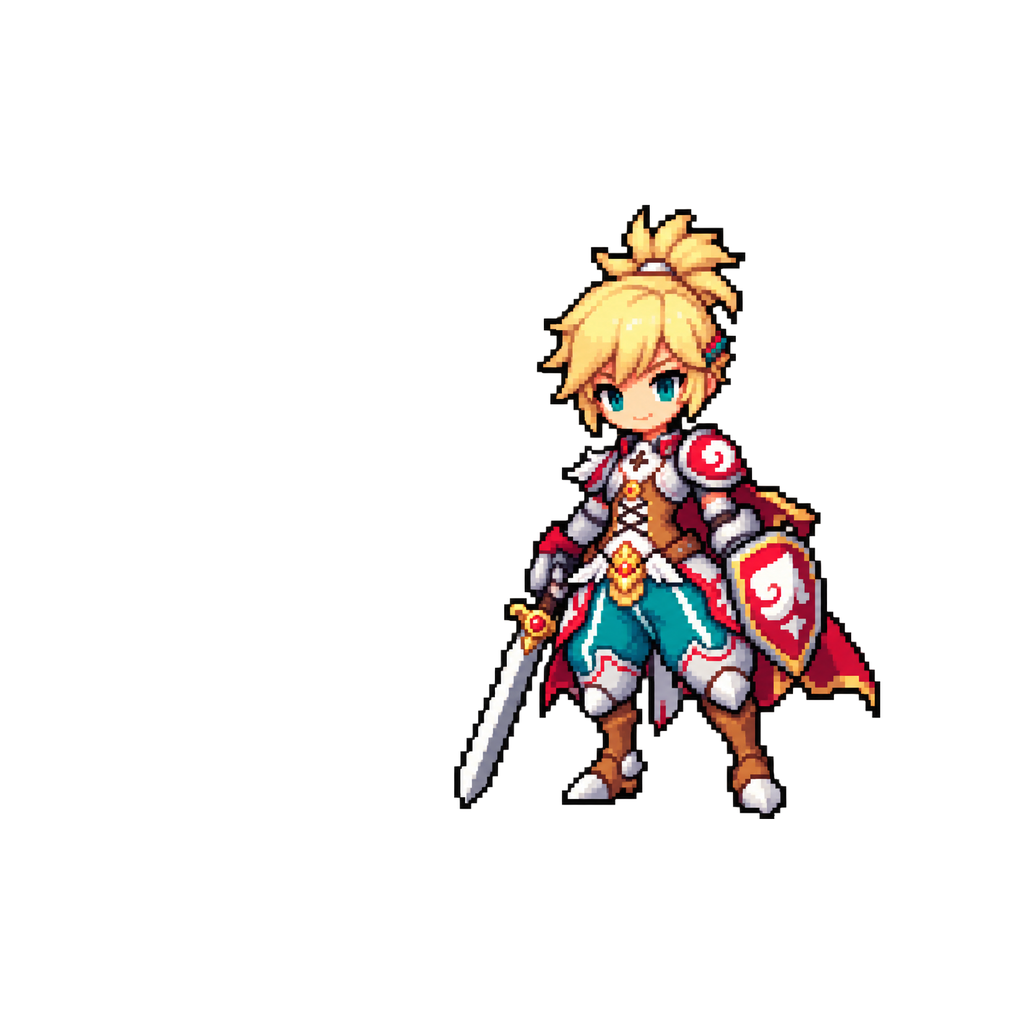
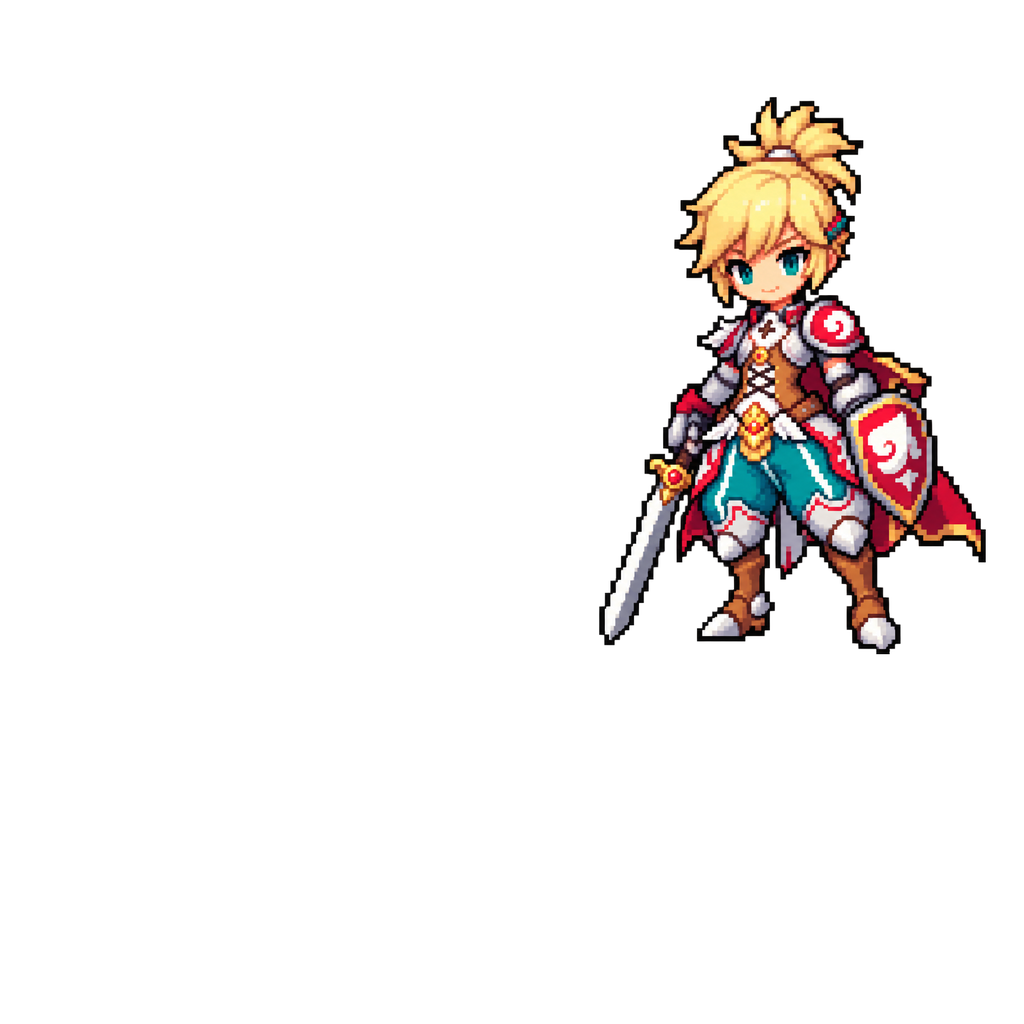
ขยาย Warrior และ Mage เป็น 1.5 เท่าทุกจุดที่ใช้
- App.jsx: คูณ 1.5 กับทุกค่าขนาดที่เกี่ยวข้อง (.warrior-img, .mage-img,
  .scribe-mage-mount .mage-img, .budget-mage-mount .mage-img,
  .safe-to-spend-header min-height) พร้อมกัน รักษาสัดส่วน/ระยะกันชนเดิมไว้ทุกจุด
- ไม่ขยาย .slime-img-party ตาม (ผู้ใช้ขอแค่ Warrior/Mage) — คอมเมนต์เดิมที่บอกว่าต้อง sync
  ขนาดกับ .budget-mage-mount .mage-img จึงไม่จริงอีกต่อไป อัปเดตคอมเมนต์ให้ตรงแล้ว
- เจอบั๊ก overlap ซ้ำตอนทดสอบ: warrior 300px บนเดสก์ท็อป ปลายดาบยื่นทับตัวเลข
  'โอน/ชำระเดือนนี้' อีกครั้ง (กล่องยึดขอบขวาคงที่ ไม่ขยับตามขนาดที่โตขึ้น)
- แก้โดยครอปไฟล์ mascot-warrior.png ใหม่: เยื้องขวามากขึ้น + ขยับตัวละครขึ้นบนในกรอบ
  (ปลายดาบเป็นจุดที่ชน ไม่ใช่ตัวคน จึงต้องขยับทั้งframe ขึ้น ไม่ใช่แค่ขยับขวา)
- ทดสอบซ้ำด้วยการจำลอง render จริงทั้งสองจุดเสี่ยงที่ขนาดใหม่ เดสก์ท็อป+มือถือ ผ่านหมด

Claude-Session: https://claude.ai/code/session_01AhArBAQLkBxgizXVESnfAh

Changed region(s): [[0.4375, 0.0938, 0.9688, 0.8125]]

diff --git a/src/App.jsx b/src/App.jsx
@@ -242,10 +242,14 @@ export default function App() {
         /* MageMascot.jsx's own <img> size — see ".warrior-img" above for why this is a class,
            not an inline style: only a stylesheet rule can be overridden by a media query. This
            card is self-contained (BudgetMageCard.jsx), so unlike the warrior it never has to
-           stay clear of someone else's numbers — just enough room to grow a bit on desktop. */
-        .mage-img { width: clamp(64px, 18vw, 100px); height: clamp(64px, 18vw, 100px); }
+           stay clear of someone else's numbers — just enough room to grow a bit on desktop.
+           1.5× across the board (2026-08-11, "ขยาย Warrior/Mage ทั้งคู่ 1.5 เท่า") — every
+           number below (this rule and its two scoped overrides, plus ".warrior-img" and
+           ".safe-to-spend-header"'s min-height) scaled by the same 1.5 factor together, so the
+           buffer/proportion relationships between them hold exactly as before, just bigger. */
+        .mage-img { width: clamp(96px, 27vw, 150px); height: clamp(96px, 27vw, 150px); }
         @media (min-width: 1280px) {
-          .mage-img { width: 140px; height: 140px; }
+          .mage-img { width: 210px; height: 210px; }
         }
 
         /* ArcherMascot.jsx's own <img> size — deliberately smaller than the warrior/mage: this
@@ -264,9 +268,9 @@ export default function App() {
            even when the headline text itself is short (one line + a subtitle) — matches
            ".scribe-mage-mount .mage-img"'s own max sizes below, plus a little breathing room, at
            each breakpoint. */
-        .safe-to-spend-header { position: relative; min-height: clamp(84px, 24vw, 128px); }
+        .safe-to-spend-header { position: relative; min-height: clamp(126px, 36vw, 192px); }
         @media (min-width: 1280px) {
-          .safe-to-spend-header { min-height: 168px; }
+          .safe-to-spend-header { min-height: 252px; }
         }
 
         /* SafeToSpendCard.jsx's own MageMascot mount ("ใช้ได้อีกวันนี้" card, Dashboard.jsx) —
@@ -277,9 +281,9 @@ export default function App() {
            specifically — NOT a change to ".mage-img" itself, which stays exactly as-is for
            BudgetMageCard.jsx (kept where it was, unchanged, per instruction). */
         .scribe-mage-mount { position: absolute; top: 50%; right: 8px; transform: translateY(-50%); z-index: 0; }
-        .scribe-mage-mount .mage-img { width: clamp(72px, 20vw, 120px); height: clamp(72px, 20vw, 120px); }
+        .scribe-mage-mount .mage-img { width: clamp(108px, 30vw, 180px); height: clamp(108px, 30vw, 180px); }
         @media (min-width: 1280px) {
-          .scribe-mage-mount .mage-img { width: 160px; height: 160px; }
+          .scribe-mage-mount .mage-img { width: 240px; height: 240px; }
         }
 
         /* SlimeEnemy.jsx (Budgets.jsx): idle is a squish-wobble (fitting for a slime) instead
@@ -341,11 +345,12 @@ export default function App() {
         }
 
         /* "party" variant — one per budgeted category, staged inside BudgetMageCard.jsx
-           opposite MageMascot, like an enemy encounter. Deliberately the SAME max box as
-           ".budget-mage-mount .mage-img" below (not ".mage-img"'s own default size) —
-           SlimeEnemy.jsx's 0.5 baseline scale only reads as "half the mage's size" if both
-           share the same reserved box to begin with. Keep these two rules' width/height in sync
-           if either changes. */
+           opposite MageMascot, like an enemy encounter. Used to be the SAME max box as
+           ".budget-mage-mount .mage-img" below, so SlimeEnemy.jsx's 0.5 baseline scale read as
+           "half the mage's size" — deliberately NO LONGER kept in sync (2026-08-11): the mage
+           box grew 1.5× on its own ("ขยาย Warrior/Mage ทั้งคู่ 1.5 เท่า" — slime wasn't part of
+           that request, so it stays at its original size instead of growing to match). The
+           "half the mage's size" reading is now approximate rather than exact. */
         .slime-img-party { width: clamp(90px, 22vw, 130px); height: clamp(90px, 22vw, 130px); transform: scale(var(--slime-scale, 0.5)); transform-origin: center; transition: transform 0.6s ease; }
         @media (min-width: 1280px) {
           .slime-img-party { width: 190px; height: 190px; }
@@ -355,10 +360,11 @@ export default function App() {
            ".mage-img" size (used as-is on TransactionDetail.jsx and, via its own further
            override, SafeToSpendCard.jsx's ".scribe-mage-mount") via a descendant override
            scoped to this mount specifically, same idiom as ".scribe-mage-mount .mage-img"
-           above. Sized to match ".slime-img-party" exactly — see that rule's own comment. */
-        .budget-mage-mount .mage-img { width: clamp(90px, 22vw, 130px); height: clamp(90px, 22vw, 130px); }
+           above. Used to match ".slime-img-party" exactly; no longer does since this rule alone
+           was scaled 1.5× — see that rule's own comment for why. */
+        .budget-mage-mount .mage-img { width: clamp(135px, 33vw, 195px); height: clamp(135px, 33vw, 195px); }
         @media (min-width: 1280px) {
-          .budget-mage-mount .mage-img { width: 190px; height: 190px; }
+          .budget-mage-mount .mage-img { width: 285px; height: 285px; }
         }
 
         /* PartyLevelUpOverlay.jsx (RPG party interactions, part 5) — the "big" celebration,
@@ -532,12 +538,15 @@ export default function App() {
            desktop media query can win — an inline style always beats an external stylesheet rule
            of any specificity unless that rule uses !important, which this file deliberately
            avoids. */
-        .warrior-img { width: clamp(90px, 26vw, 140px); height: clamp(90px, 26vw, 140px); }
+        /* 1.5× (2026-08-11, "ขยาย Warrior/Mage ทั้งคู่ 1.5 เท่า") — see ".mage-img"'s own
+           comment above for the scaling approach. Re-verified against the same overlap risk the
+           200px note below originally called out (reaching into the speech bubble/label text) —
+           still clear at 300px with the current mascot-warrior.png crop (right-biased within its
+           own canvas, see that file's own 2026-08-11 provenance note), but if that art is ever
+           swapped again this is the number to re-check first. */
+        .warrior-img { width: clamp(135px, 39vw, 210px); height: clamp(135px, 39vw, 210px); }
         @media (min-width: 1280px) {
-          /* 200px, not the 260px tried first — that was tall enough to reach up into the speech
-             bubble/label text above it on real desktop widths. 200px is still a clear step up
-             from the pre-enlargement 130px without covering anything. */
-          .warrior-img { width: 200px; height: 200px; }
+          .warrior-img { width: 300px; height: 300px; }
         }
 
         /* Base: clips the card's own perforation strip + (at mobile widths) the mascot to its
